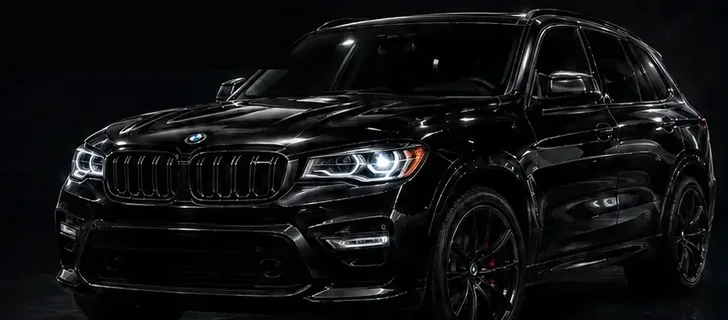
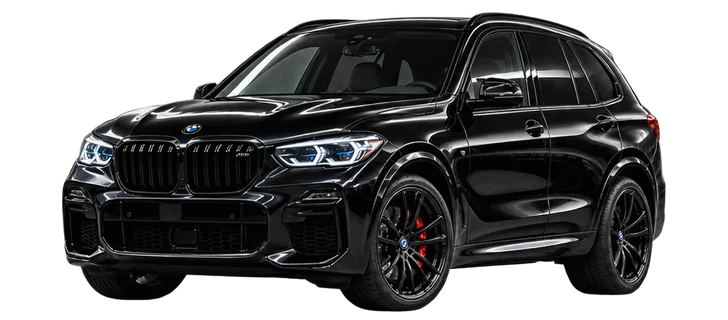
Apex demo: the owner's car pictures on the package cards (#81)
The owner sent a sheet of four cars. Each is now a clean, transparent
cut-out on its card: the black X5 on Bronze, the silver Audi on Gold,
the black R8 on Platinum and the blue M4 on Diamond, at full strength
with a soft shadow, instead of the dim crops from his site's graphics.

Claude-Session: https://claude.ai/code/session_01CQY5gR8J7QPtBtLvt1q38t

diff --git a/demo-templates/detailing/template.html b/demo-templates/detailing/template.html
@@ -801,7 +801,7 @@ ol.journey li::after{background:linear-gradient(#1e90ff,#1e90ff) top/100% 0% no-
 ol.journey li.done::after{background:linear-gradient(#1e90ff,#1e90ff) top/100% 100% no-repeat,rgba(85,183,219,.18)}
 ol.journey li.done::before{background:linear-gradient(180deg,#1a74d0,#0f5fae);border-color:transparent;color:#fff}
 /* package car pictures: bright, full width across the top of the card */
-.t-car{width:calc(100% + 44px);margin:6px -22px 12px;mix-blend-mode:normal;filter:brightness(1.18) contrast(1.06) saturate(1.1);-webkit-mask-image:linear-gradient(90deg,transparent,#000 8%,#000 92%,transparent),linear-gradient(180deg,transparent,#000 10%,#000 82%,transparent);-webkit-mask-composite:source-in;mask-image:linear-gradient(90deg,transparent,#000 8%,#000 92%,transparent),linear-gradient(180deg,transparent,#000 10%,#000 82%,transparent);mask-composite:intersect}
+.t-car{width:calc(100% + 16px);margin:8px -8px 12px;mix-blend-mode:normal;filter:drop-shadow(0 16px 14px rgba(0,0,0,.7)) drop-shadow(0 0 18px color-mix(in srgb,var(--tc) 18%,transparent));-webkit-mask-image:none;mask-image:none}
 </style>
 </head>
 <body>

diff --git a/public/apex-detailing/index.html b/public/apex-detailing/index.html
@@ -801,7 +801,7 @@ ol.journey li::after{background:linear-gradient(#1e90ff,#1e90ff) top/100% 0% no-
 ol.journey li.done::after{background:linear-gradient(#1e90ff,#1e90ff) top/100% 100% no-repeat,rgba(85,183,219,.18)}
 ol.journey li.done::before{background:linear-gradient(180deg,#1a74d0,#0f5fae);border-color:transparent;color:#fff}
 /* package car pictures: bright, full width across the top of the card */
-.t-car{width:calc(100% + 44px);margin:6px -22px 12px;mix-blend-mode:normal;filter:brightness(1.18) contrast(1.06) saturate(1.1);-webkit-mask-image:linear-gradient(90deg,transparent,#000 8%,#000 92%,transparent),linear-gradient(180deg,transparent,#000 10%,#000 82%,transparent);-webkit-mask-composite:source-in;mask-image:linear-gradient(90deg,transparent,#000 8%,#000 92%,transparent),linear-gradient(180deg,transparent,#000 10%,#000 82%,transparent);mask-composite:intersect}
+.t-car{width:calc(100% + 16px);margin:8px -8px 12px;mix-blend-mode:normal;filter:drop-shadow(0 16px 14px rgba(0,0,0,.7)) drop-shadow(0 0 18px color-mix(in srgb,var(--tc) 18%,transparent));-webkit-mask-image:none;mask-image:none}
 </style>
 </head>
 <body>

diff --git a/demo-templates/detailing/README.md b/demo-templates/detailing/README.md
@@ -70,8 +70,9 @@ From the third review (October 2026):
 - Video tiles fairly large on phones (about 60% of the width).
 - Their own package-card look: each tier card shows a car photo between
   the name and the list, and a "Starting at" price box above the button
-  (`packages.tiers[].image`, cut from their own graphics, 728×320 on a dark
-  background). Plus a "Compare packages" table (`packages.compare.rows`,
+  (`packages.tiers[].image`, 728×320 transparent cut-outs of each car,
+  set near the bottom of the frame; Apex's came from a sheet the owner
+  sent, since the first crops from his site graphics looked dim). Plus a "Compare packages" table (`packages.compare.rows`,
   each with `has`, one true/false per tier; `packages.tiers[].short` is
   the label under each name).
 - Hero background: a graphic, not a photo. With no `images.hero`, the hero
